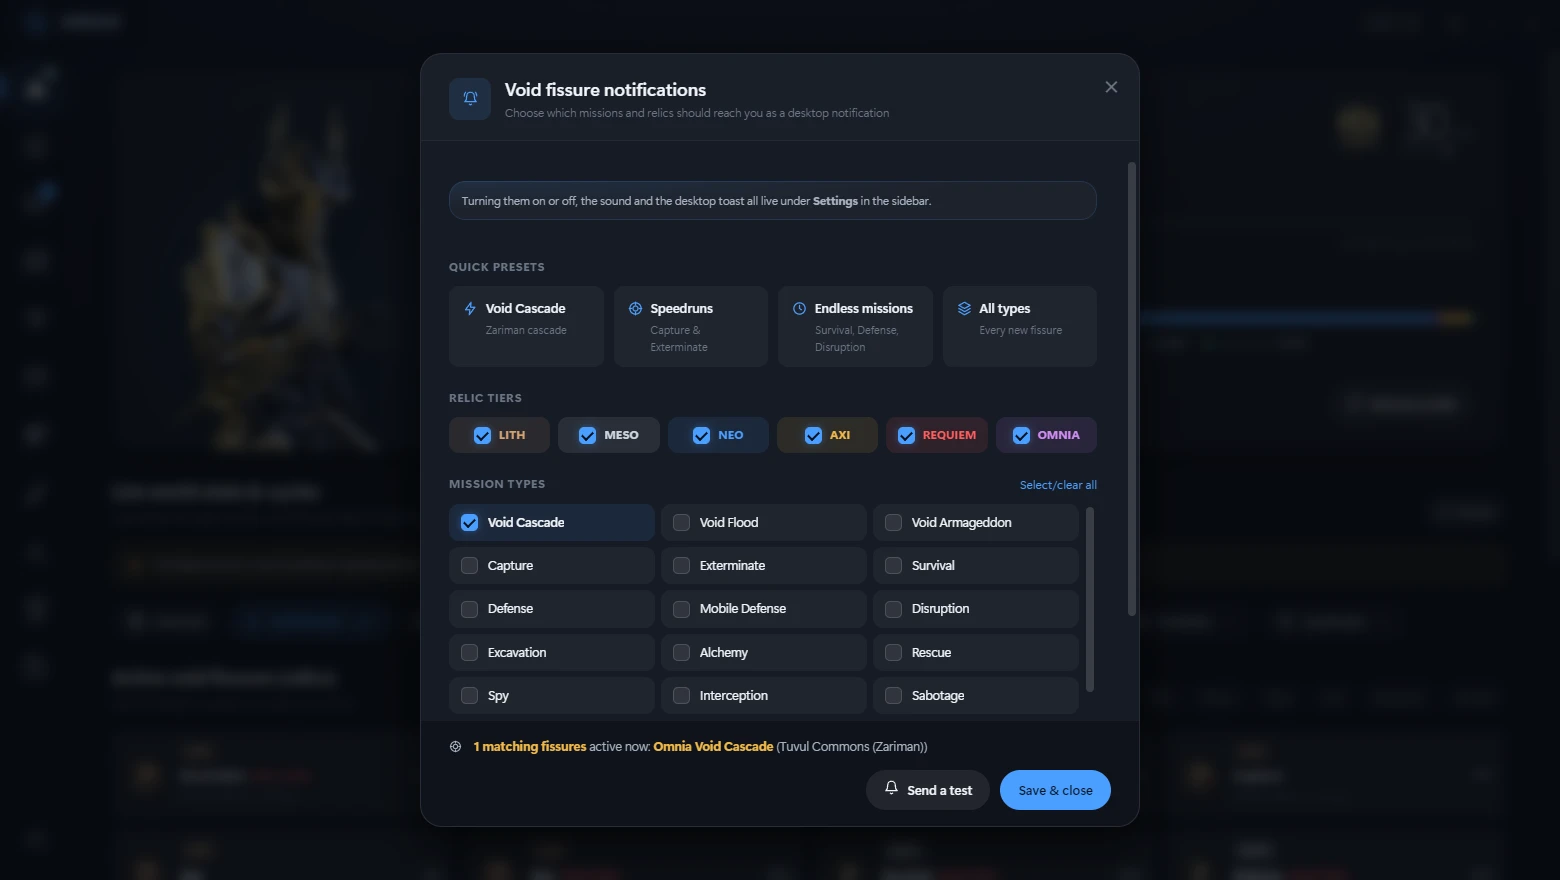
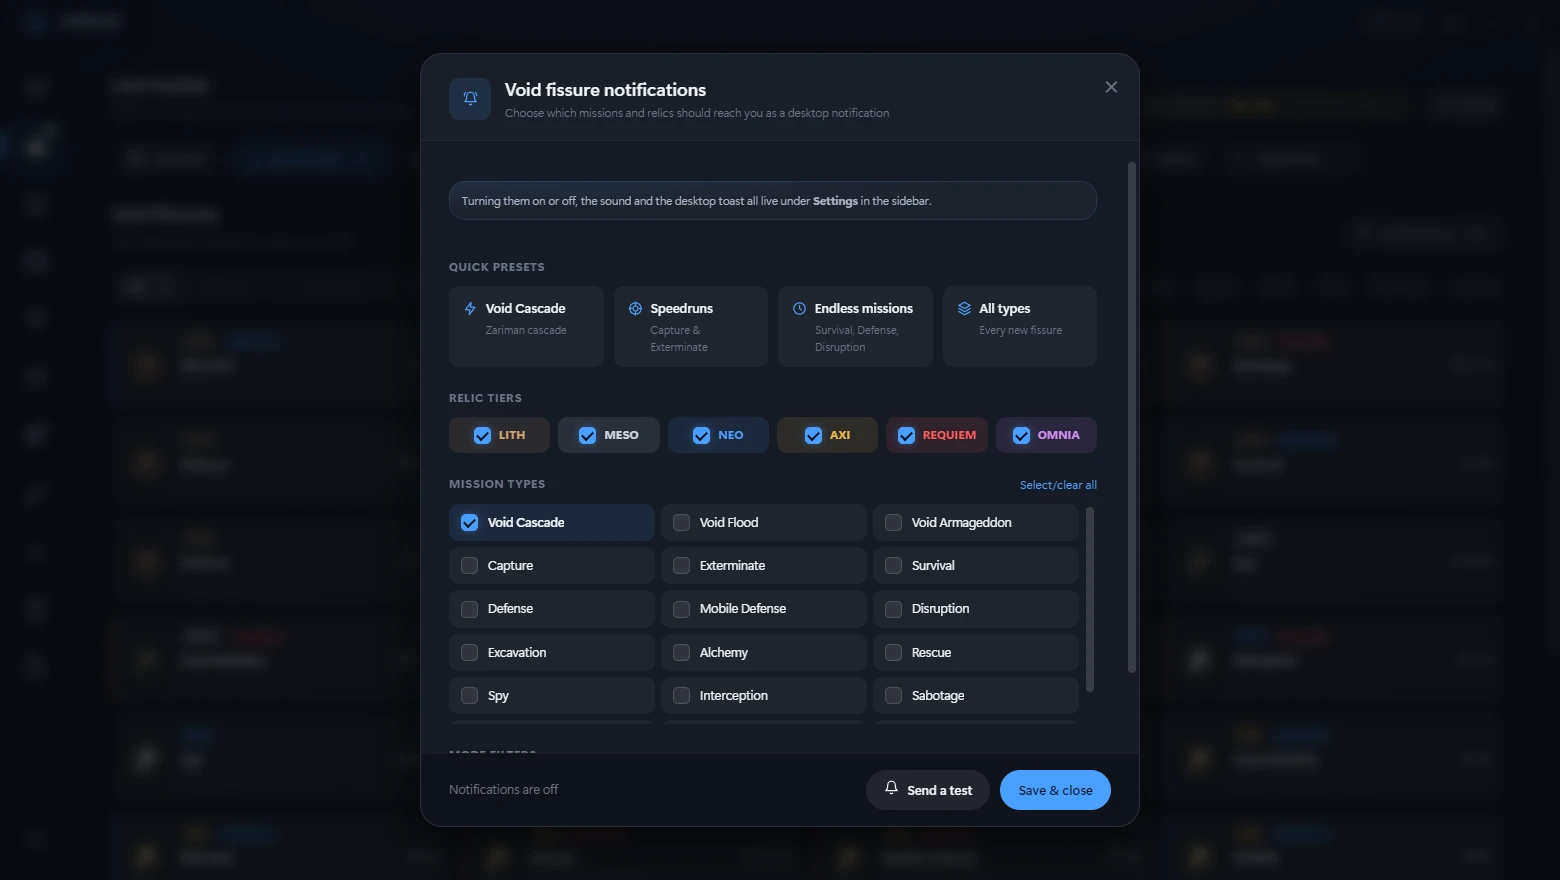
README: der Live-Tracker neu, Mastery als erster Reiter
Die Reiter-Abschnitte stehen in der neuen Reihenfolge - Mastery, Live-Tracker,
Weekly -, und der Live-Tracker hat seine Ansichten neu: Uebersicht, Heute und
diese Woche, Risse, Einsaetze, Kopfgelder, Invasionen, Steel Path, Nightwave,
Haendler, Operationen. "Sorties" und "Syndicates" gibt es als Ansicht nicht
mehr; ihre Bilder entfallen.

Aufgenommen wie die bisherigen (1560 x 880, WebP), mit echten Daten - der
Heute-Block zeigt deshalb den Hinweis statt Tageswerten, das Inventar war
von gestern. Die Benachrichtigungs-Einstellungen bekommen ihr neues Bild mit
den Zyklen, "What it does" beschreibt den Live-Tracker neu.

diff --git a/README.md b/README.md
@@ -98,9 +98,10 @@ Every mechanism, permission and endpoint is explained in detail:
   so you can decide before you pick. → [Rivens](docs/rivens.md)
 - **The overlay window.** Open-world cycles, void fissures, your relics and goals on top
   of the running game, on a hotkey. → [Controls](docs/controls.md)
-- **Notifications** for the void fissures you care about, and for whispers in game —
-  if you like, only the ones copied from warframe.market, so a ping means someone wants
-  to trade. → [Controls](docs/controls.md)
+- **Notifications** for the void fissures you care about, a few minutes before an
+  open-world cycle flips, and for whispers in game — if you like, only the ones copied
+  from warframe.market, so a ping means someone wants to trade.
+  → [Controls](docs/controls.md)
 
 ### Planning
 
@@ -115,8 +116,13 @@ Every mechanism, permission and endpoint is explained in detail:
 - **Update vendors.** The shops that sell a Warframe instead of dropping it — Otak, Zorba,
   Acrithis, the shrine at Cetus — each price list lined up against what you already own.
   → [Vendors](docs/vendors.md)
-- **Live world state.** Open-world cycles, void fissures, the sortie, the Archon hunt,
-  Nightwave, alerts, invasions, syndicate bounties, Steel Path and Baro's countdown.
+- **Live tracker.** Every reset and rotation on one board, all six open-world cycles —
+  Earth, the Plains, Orb Vallis, Cambion Drift, the Zariman and Duviri's mood — and what
+  is left for you today. Void fissures split into normal, Steel Path and Void Storms; the
+  sortie, the Archon hunt and the arbitration schedule; every bounty board with what each
+  stage pays out; invasions, Nightwave, Teshin's offers weeks ahead, and the traders —
+  Baro, Varzia's Prime Resurgence, Darvo, Ergo Glast and Eleanor — with what you already
+  own marked, down to the Incarnon in this week's Circuit.
 - **Weekly rotation.** Everything that resets once a week — Archon Hunt, The Circuit,
   Deep and Temporal Archimedea, Netracells, Kahl's Garrison, the Descendia and the vendor
   resets — ticked off by itself wherever your own save records it.
@@ -176,64 +182,6 @@ them yourself.
 Each tab of the window, with a screenshot of every view in it. Click one to open it.
 
 <details>
-<summary><b>Live tracker</b> — cycles, fissures, sorties, Nightwave, invasions, bounties and Steel Path</summary>
-
-<br>
-
-**Overview** — the open-world cycles and Baro's next visit
-
-![Live tracker: overview](docs/img/ws-overview.webp)
-
-**Void fissures** — every open fissure with its era, mission and time left
-
-![Live tracker: void fissures](docs/img/ws-fissures.webp)
-
-**Fissure notifications** — which fissures are worth a desktop notification, with what matches right now
-
-![Live tracker: fissure notifications](docs/img/ws-fissure-notifications.webp)
-
-**Sorties** — the daily sortie and this week's Archon hunt
-
-![Live tracker: sorties](docs/img/ws-sorties.webp)
-
-**Nightwave** — daily, weekly and elite acts with their standing
-
-![Live tracker: Nightwave](docs/img/ws-nightwave.webp)
-
-**Operations** — running events and how far along they are
-
-![Live tracker: operations](docs/img/ws-operations.webp)
-
-**Steel Path** — Teshin's offering this week, and whether Incursions are on
-
-![Live tracker: Steel Path](docs/img/ws-steelpath.webp)
-
-**Invasions** — both sides, their progress and their rewards
-
-![Live tracker: invasions](docs/img/ws-invasions.webp)
-
-**Syndicates** — the bounties and missions of each syndicate, and when they rotate
-
-![Live tracker: syndicates](docs/img/ws-syndicates.webp)
-
-</details>
-
-<details>
-<summary><b>Weekly rotation</b> — everything that resets once a week</summary>
-
-<br>
-
-**Content** — Archon Hunt, The Circuit, Deep and Temporal Archimedea, Netracells, Kahl's Garrison and the Descendia, ticked off from your save where it records them
-
-![Weekly rotation: content](docs/img/weekly-content.webp)
-
-**Vendor resets** — Teshin, Bird 3, Yonta, Acrithis, Palladino and Nightwave
-
-![Weekly rotation: vendor resets](docs/img/weekly-vendors.webp)
-
-</details>
-
-<details>
 <summary><b>Mastery & goals</b> — what to build next, and what it takes</summary>
 
 <br>
@@ -265,6 +213,72 @@ Each tab of the window, with a screenshot of every view in it. Click one to open
 **Update vendors** — the Warframes you buy rather than farm, lined up against what you own
 
 ![Mastery: update vendors](docs/img/mastery-vendors.webp)
+
+</details>
+
+<details>
+<summary><b>Live tracker</b> — every clock, cycle, fissure, bounty and trader in the world right now</summary>
+
+<br>
+
+**Overview** — every reset and rotation in one row, and all six open-world cycles with a bell for a notification before they change
+
+![Live tracker: overview](docs/img/ws-overview.webp)
+
+**Today and this week** — the sortie, what standing and focus you can still earn, the Circuit picks you already own, and the traders at a glance
+
+![Live tracker: today and this week](docs/img/ws-board.webp)
+
+**Void fissures** — normal, Steel Path or Void Storm, with era, mission and time left
+
+![Live tracker: void fissures](docs/img/ws-fissures.webp)
+
+**Fissure notifications** — which fissures are worth a desktop notification, with what matches right now
+
+![Live tracker: fissure notifications](docs/img/ws-fissure-notifications.webp)
+
+**Missions** — the sortie, the Archon hunt, the arbitration running now and the next day of them
+
+![Live tracker: missions](docs/img/ws-missions.webp)
+
+**Bounties** — every bounty board; a click shows what each stage pays out, at the rotation it is on
+
+![Live tracker: bounties](docs/img/ws-bounties.webp)
+
+**Invasions** — both sides, their progress and their rewards
+
+![Live tracker: invasions](docs/img/ws-invasions.webp)
+
+**Steel Path** — Teshin's offer this week, the weeks after, and what he always has
+
+![Live tracker: Steel Path](docs/img/ws-steelpath.webp)
+
+**Nightwave** — daily, weekly and elite acts with their standing
+
+![Live tracker: Nightwave](docs/img/ws-nightwave.webp)
+
+**Traders** — Baro, Varzia's Prime Resurgence, Darvo's deal, and the four-day rotations of Ergo Glast and Eleanor
+
+![Live tracker: traders](docs/img/ws-traders.webp)
+
+**Operations** — running events, and how far the enemy fleets are with their next assault
+
+![Live tracker: operations](docs/img/ws-operations.webp)
+
+</details>
+
+<details>
+<summary><b>Weekly rotation</b> — everything that resets once a week</summary>
+
+<br>
+
+**Content** — Archon Hunt, The Circuit, Deep and Temporal Archimedea, Netracells, Kahl's Garrison and the Descendia, ticked off from your save where it records them
+
+![Weekly rotation: content](docs/img/weekly-content.webp)
+
+**Vendor resets** — Teshin, Bird 3, Yonta, Acrithis, Palladino and Nightwave
+
+![Weekly rotation: vendor resets](docs/img/weekly-vendors.webp)
 
 </details>
 
@@ -461,7 +475,7 @@ Each tab of the window, with a screenshot of every view in it. Click one to open
 
 ![Settings: overlays](docs/img/settings-overlays.webp)
 
-**Notifications** — fissures and whispers, with sound and a desktop toast
+**Notifications** — fissures, open-world cycles and whispers, with sound and a desktop toast
 
 ![Settings: notifications](docs/img/settings-notifications.webp)
 
